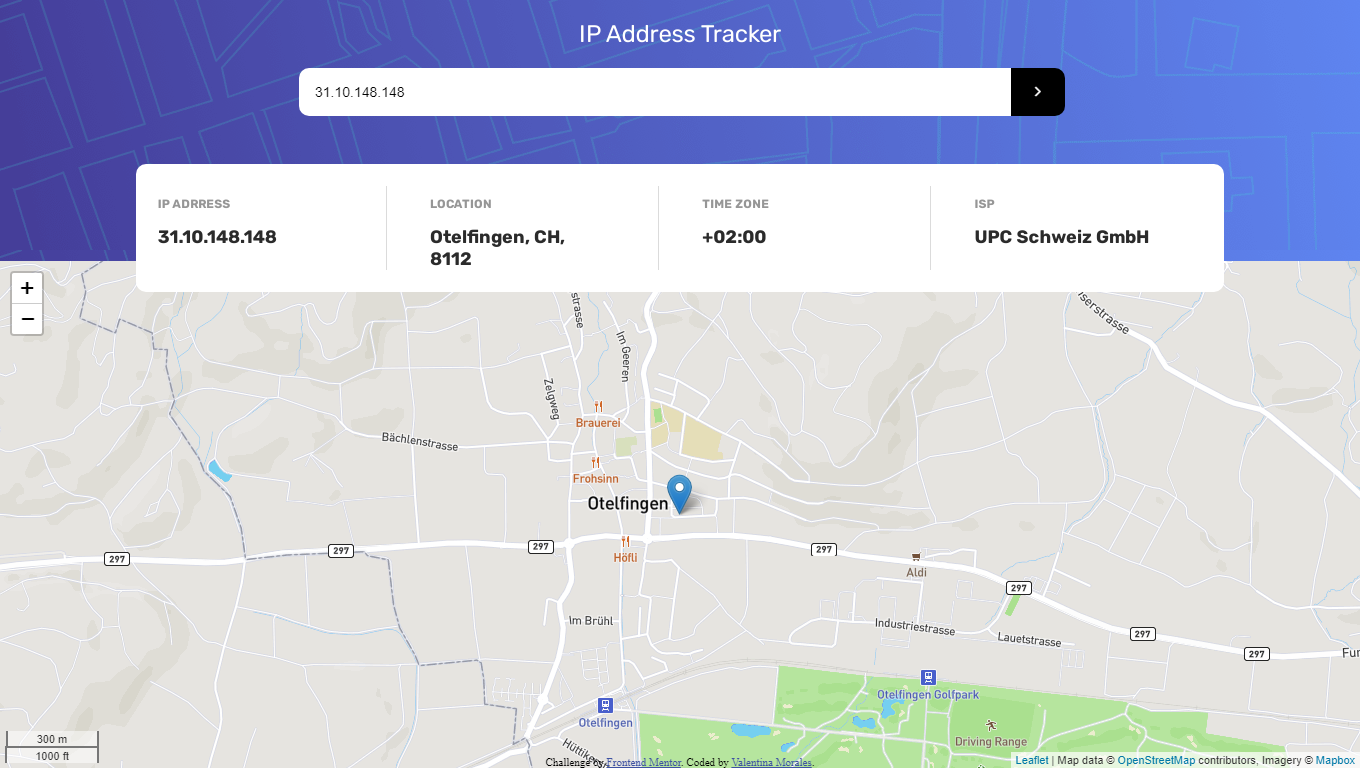
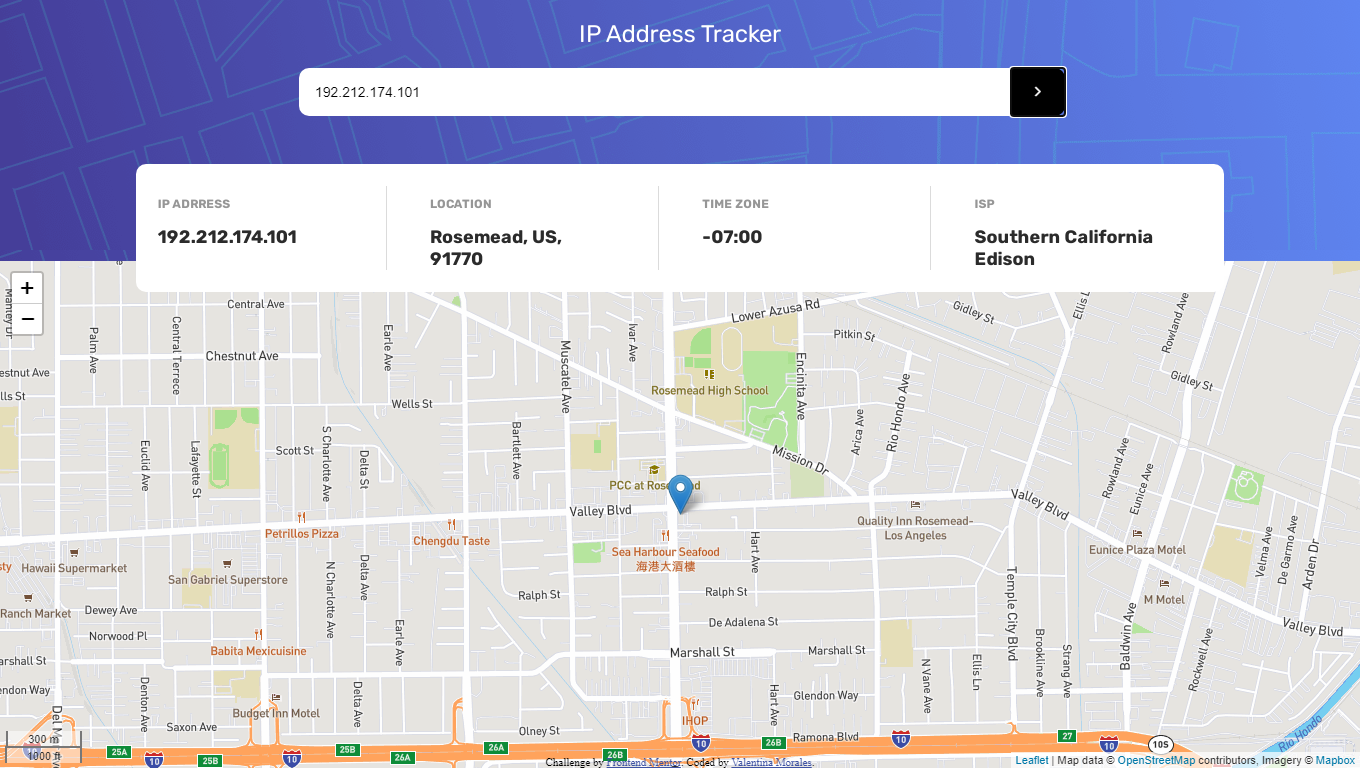
default ip adress

diff --git a/index.html b/index.html
@@ -34,7 +34,7 @@
       <h2 class="header-title">IP Address Tracker</h2>
 
        <div class="search-container">
-          <input type="text" id="input-search" value="31.10.148.148" onkeyup="getInputText()" placeholder="Search for any IP Adress" name="search">
+          <input type="text" id="input-search" value="192.212.174.101" onkeyup="getInputText()" placeholder="Search for any IP Adress" name="search">
           <button onclick="searchLocation()"><i class="fa fa-angle-right" aria-hidden="true"></i></button>
       </div>
     </div>
